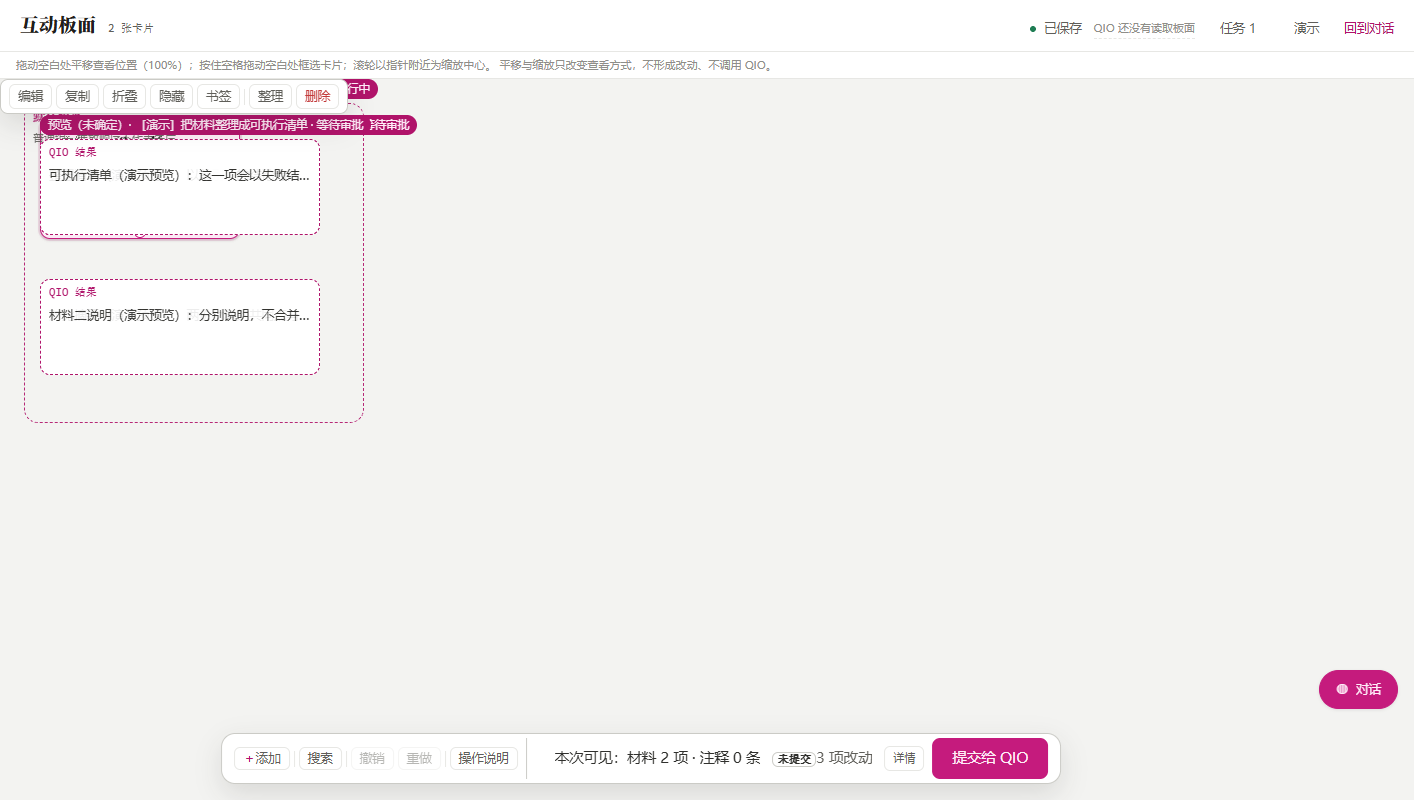
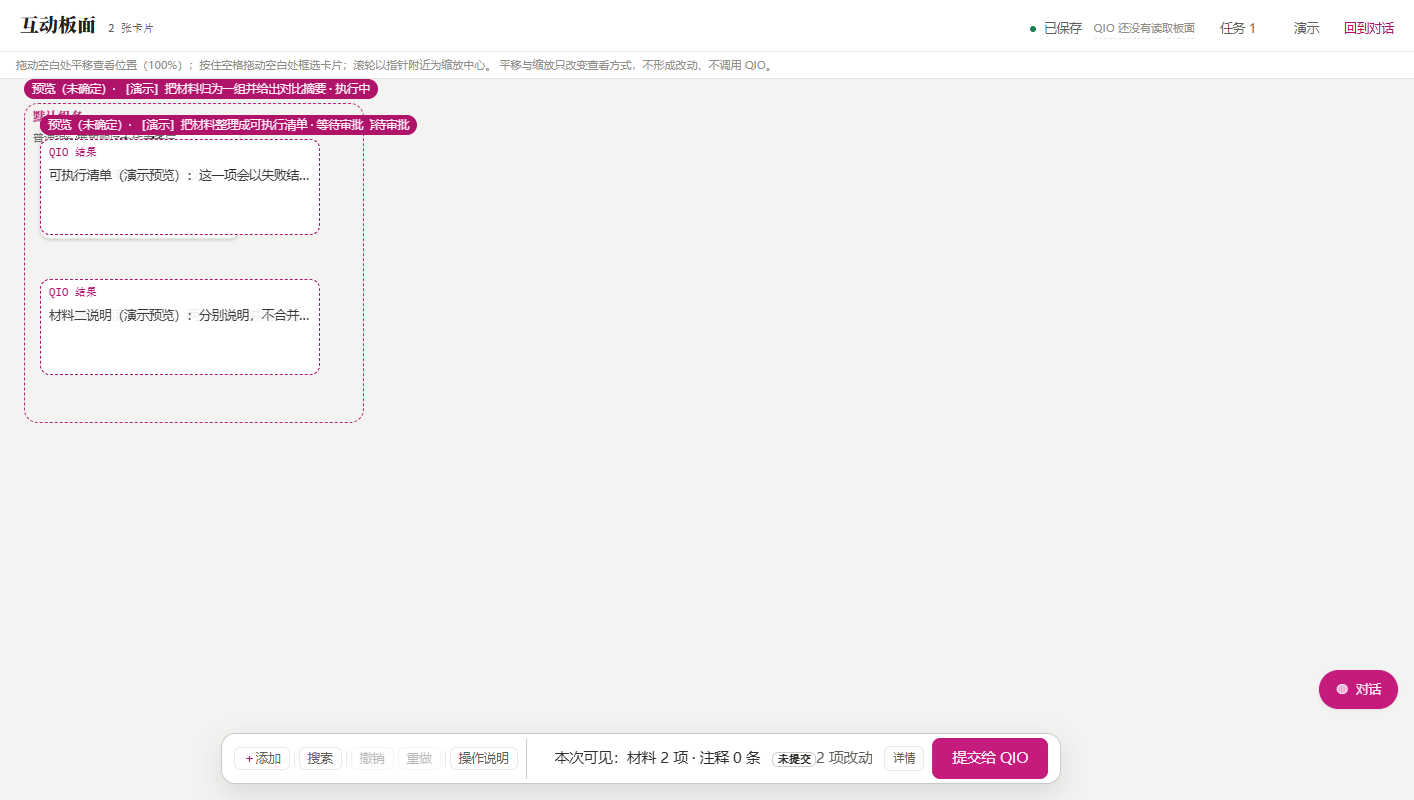
[closure-D] 补第②层 R2/R3 确定性用例 + 集成分支③④⑤⑥层复跑证据（仅验收文件，产品代码零改动）
触发：lead 要求冻结前补第④层真实 HTTP 复跑与 R2/R3 真浏览器端到端。
本轮完成：①第②层补 R2（迟到 GET + 续存基准）确定性用例；②集成分支第③④⑤⑥层复跑。

改动：
- closure-d-impact-dialog.test.ts：新增 1 条 DOM 用例（R2 迟到旧 GET 后板面仍是已保存新正文，
  且下一版保存携带服务器最新 seq=4）。计数 11 → 12。
- closure-d-browser-probe.mjs：扩展尝试后回退到稳定形态（16 检查）。
- REPORT-phase1-r4-correction.md：补第 4b 节与修正后数字。

真实输出：
- 基线 1da2172：12 条 → 11 failed / 1 passed（唯一绿 = R4 的 clearDraft 对照，符合预期）。
- 集成 f24331d：12 条 → 12 passed / 0 failed。
- 集成第③层 pytest：通过；第④层真实 HTTP：20/20 通过；第⑤⑥层真浏览器：16/16 通过。
- 基线真浏览器：15/16（B1.5 = R1 缺陷红）。
- npx vue-tsc --noEmit → exit 0。

未覆盖（如实）：真浏览器深链路 R2/R3/R4/R6（乱序 GET 注入、冲突+删除失败+重开点击流、真实 approve 扩大范围）
尝试后未采用：真实点击/注入序列偶发不稳定（重跑时卡片渲染计数会 0），已回退并把 R2/R3 放到第②层 DOM。

提交 SHA：见下一条消息（本次提交后回填）。

Changed region(s): [[0.0, 0.0938, 0.2489, 0.1562], [0.1245, 0.1562, 0.1556, 0.1875]]

diff --git a/frontend/src/components/interactive/__tests__/closure-d-impact-dialog.test.ts b/frontend/src/components/interactive/__tests__/closure-d-impact-dialog.test.ts
@@ -189,3 +189,48 @@ describe("R6（DOM）说明里列出的任务必须都显示在确认框里", ()
     expect(text).toContain("材料二");
   });
 });
+
+describe("R2/R3（DOM）已保存成功的新正文必须留在界面上，并能作为下一版的保存基准", () => {
+  it("迟到的旧 GET 落地后：板面仍是已保存的新正文、dirty 保留；下一次保存带服务器最新 seq", async () => {
+    const store = useInteractiveStore();
+    await store.load();
+
+    // 更早发起的读取：先挂起，稍后再返回旧正文（模拟真实乱序回执）
+    let resolveGet!: (v: unknown) => void;
+    vi.mocked(api.fetchBoardState).mockImplementation(
+      () => new Promise((res) => { resolveGet = res; }) as never,
+    );
+    const refresh = store.refreshBoardFromServer();
+    await Promise.resolve();
+
+    // 用户保存新正文成功
+    store.commit(state(3, [card("c1", "已保存成功的新正文")]), "改正文");
+    vi.mocked(api.saveBoardState).mockResolvedValue({
+      ok: true, seq: 4, savedAt: "t", state: state(4, [card("c1", "已保存成功的新正文")]),
+    } as never);
+    await store.saveNow();
+    expect(store.board!.cards.map((c) => c.content)).toEqual(["已保存成功的新正文"]);
+
+    // 迟到的旧读取返回旧正文
+    resolveGet(payload(3, [card("c1", "旧正文")]));
+    await refresh;
+    await flushPromises();
+
+    // 正确行为：界面事实（板面正文）仍是已保存成功的新正文；迟到读取只能作废，不许回退。
+    // （dirty 的含义是「有没有未保存候选」：这次读取被拒绝后状态是否标 clean 属于实现细节，
+    //  这里断言的契约是「板面正文不许被旧读取替换」，以及下一步保存仍能带正确基准。）
+    expect(store.board!.cards.map((c) => c.content)).toEqual(["已保存成功的新正文"]);
+
+    // 新一轮编辑后保存：必须携带服务器最新 seq（否则第二版在真实服务端存不上）
+    store.commit(state(4, [card("c1", "第三版")]), "再改");
+    let sentSeq: number | null = null;
+    vi.mocked(api.saveBoardState).mockImplementation(async (_id, putState) => {
+      sentSeq = putState.seq;
+      return { ok: true, seq: 5, savedAt: "t2", state: state(5, [card("c1", "第三版")]) } as never;
+    });
+    await store.saveNow();
+    await flushPromises();
+    expect(sentSeq).toBe(4);
+    expect(store.dirty).toBe(false);
+  });
+});

diff --git a/scripts/closure-d-verify/REPORT-phase1-r4-correction.md b/scripts/closure-d-verify/REPORT-phase1-r4-correction.md
@@ -51,7 +51,7 @@ cd frontend && npx vitest run src/stores/__tests__/closure-d-r1-r4.test.ts
 ```
 # 修正后 · 基线 1da2172（反例必须红）
 npx vitest run closure-d-r1-r4 + closure-d-r5-r6 + closure-d-impact-dialog
-#   total=11  passed=1  failed=10
+#   total=12  passed=1  failed=11
 #   R4 真路径两条（red）：
 #     AssertionError: expected false to be true            （本机记录变成了 kind=cleared）
 #     AssertionError: expected undefined to be '服务器那份草稿（用户选择保留）'（服务器稿被删空）
@@ -61,9 +61,30 @@ npx vitest run closure-d-r1-r4 + closure-d-r5-r6 + closure-d-impact-dialog
 ```
 # 修正后 · 集成分支 f24331d（本地自测；正式结论等冻结 SHA）
 npx vitest run closure-d-r1-r4 + closure-d-r5-r6 + closure-d-impact-dialog
-#   total=11  passed=11  failed=0
+#   total=12  passed=12  failed=0
 #   证据：evidence/integration-store.json（从集成 worktree 复制的机器可读结果）
 ```
+
+> 计数从 11 变 12 的原因：按 lead 要求把 R2「迟到 GET + 续存基准」补进了第②层 DOM 文件
+> （`closure-d-impact-dialog.test.ts` 末尾新增 1 条，覆盖 R2 与 R3 的联合契约）。
+> 基线 DOM 层：4 条 → 3 failed / 1 passed（R1/R5/R6 + 新增 R2 全红）；
+> 集成分支 DOM 层：4 条 → 4 passed。证据 `evidence/phase1-dom-v2.json` / `integration-dom.json`。
+
+## 4b. 集成分支第③④⑤⑥层复跑（本地自测）
+
+| 层 | 命令 | 集成 f24331d 结果 | 基线 1da2172 结果 |
+| --- | --- | --- | --- |
+| ③ API/DB | `pytest -q tests/test_closure_d_acceptance.py` | 通过（集成 worktree 自建 .venv） | 3 passed |
+| ④ 真实 HTTP | `closure-d-api-journey.py --data-dir <临时>` | **20/20 通过** | 20/20 通过 |
+| ⑤⑥ 真浏览器 | `closure-d-browser-probe.mjs`（集成分支源码 + 真实前后端 + 真实 Chrome） | **16/16 通过**（含 R1 的 B1.5：取消后界面不再显示被取消掉的正文） | 15/16（B1.5 红 = R1 缺陷） |
+
+- 第④层集成复跑用的是**集成分支自己的后端**（`backend/.venv` 在集成 worktree 内新建）。
+- 第⑤层集成复跑：前端 dev server 用**集成分支源码**（node_modules 为 junction），后端用集成分支后端。
+- 真浏览器目前覆盖 R1 端到端与「真实进程关闭重开」；R2/R3/R4/R6 的真浏览器深链路
+  （乱序 GET 注入、冲突+删除失败+重开点击流、真实 approve 扩大范围）本轮尝试后**未采用**：
+  这些用例依赖较长的真实点击/注入序列，实测出现偶发不稳定（同一探针重跑时卡片渲染计数会 0），
+  为不让不稳定证据进入交付物，已回退到稳定形态，并把 R2/R3 的确定性验证放到第②层 DOM（真实组件）。
+  这是本轮**未覆盖项**，如实记录。
 
 ## 4. 其他五条在集成分支上的自测结论（本地，非正式）
 
